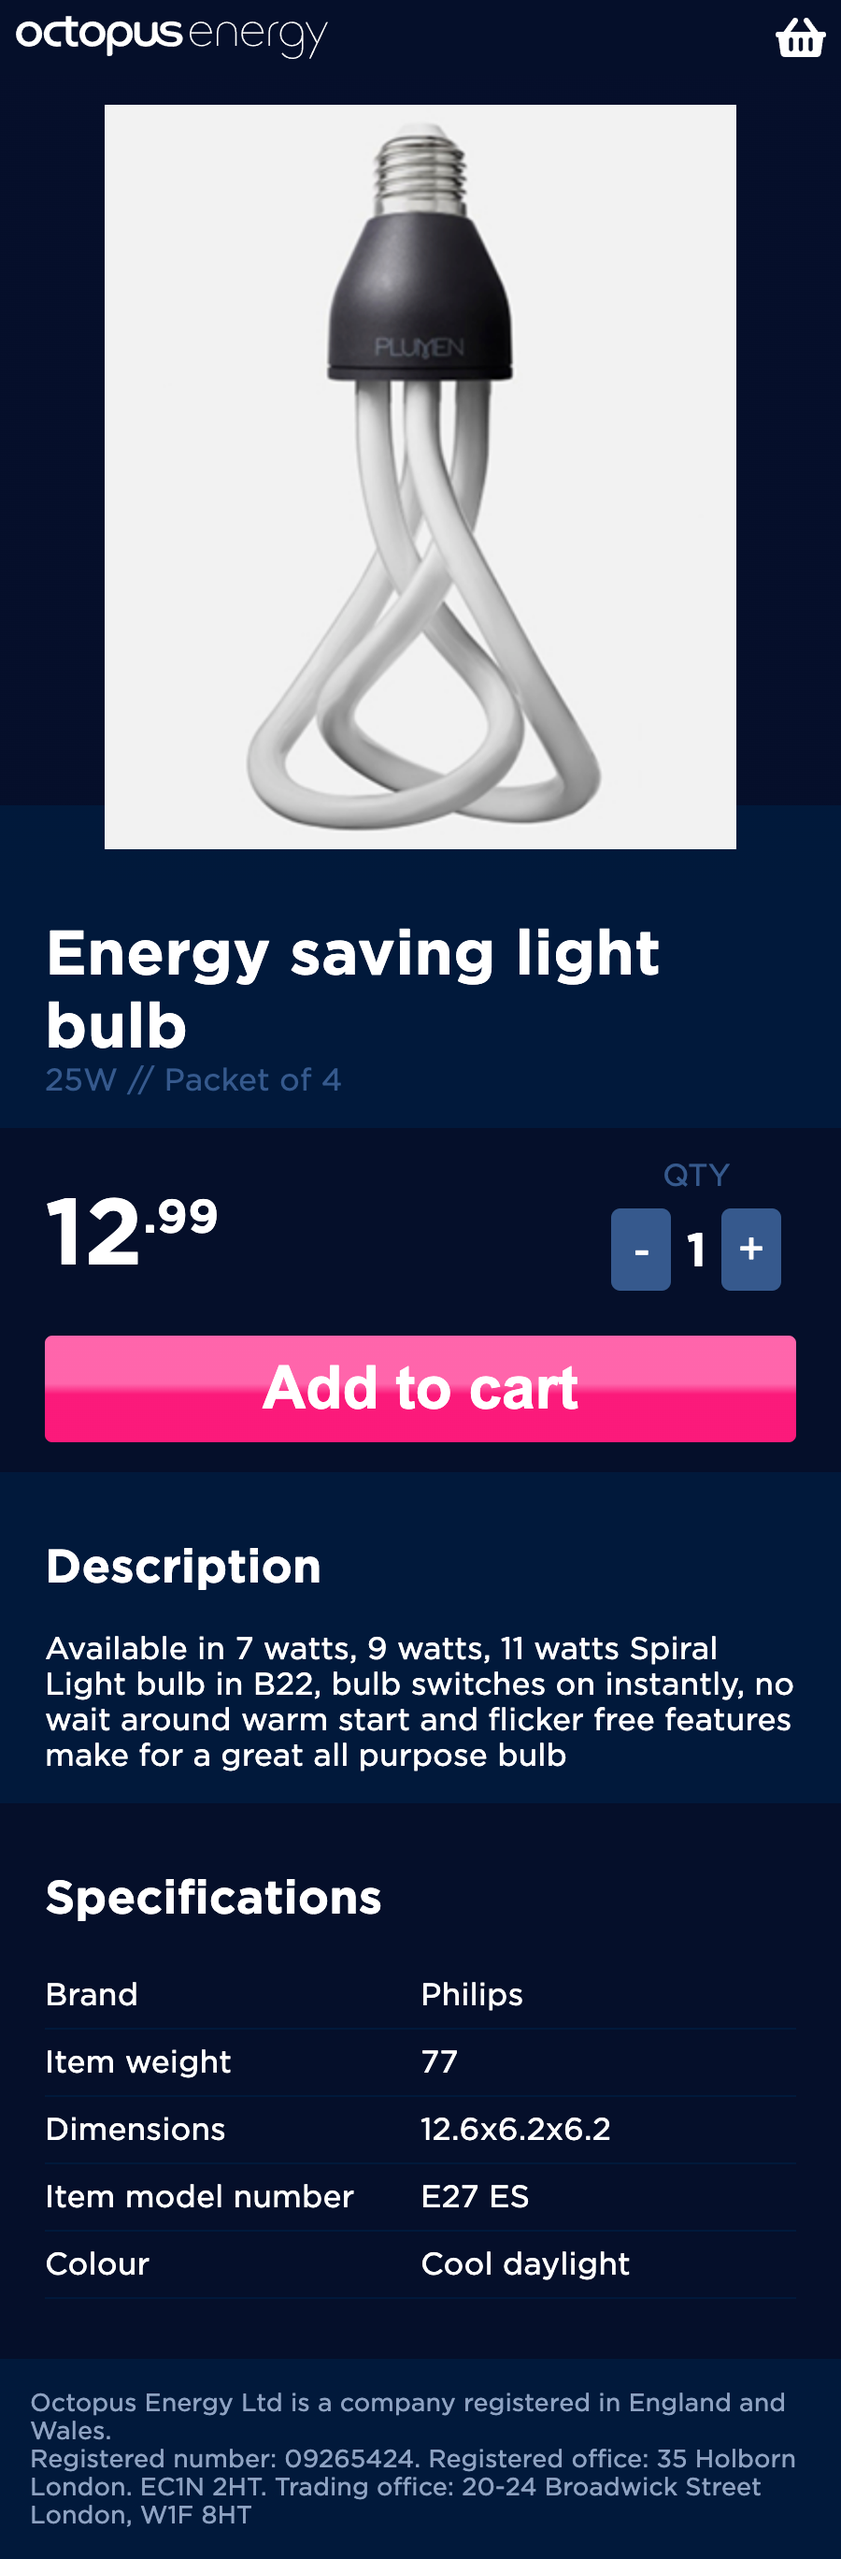
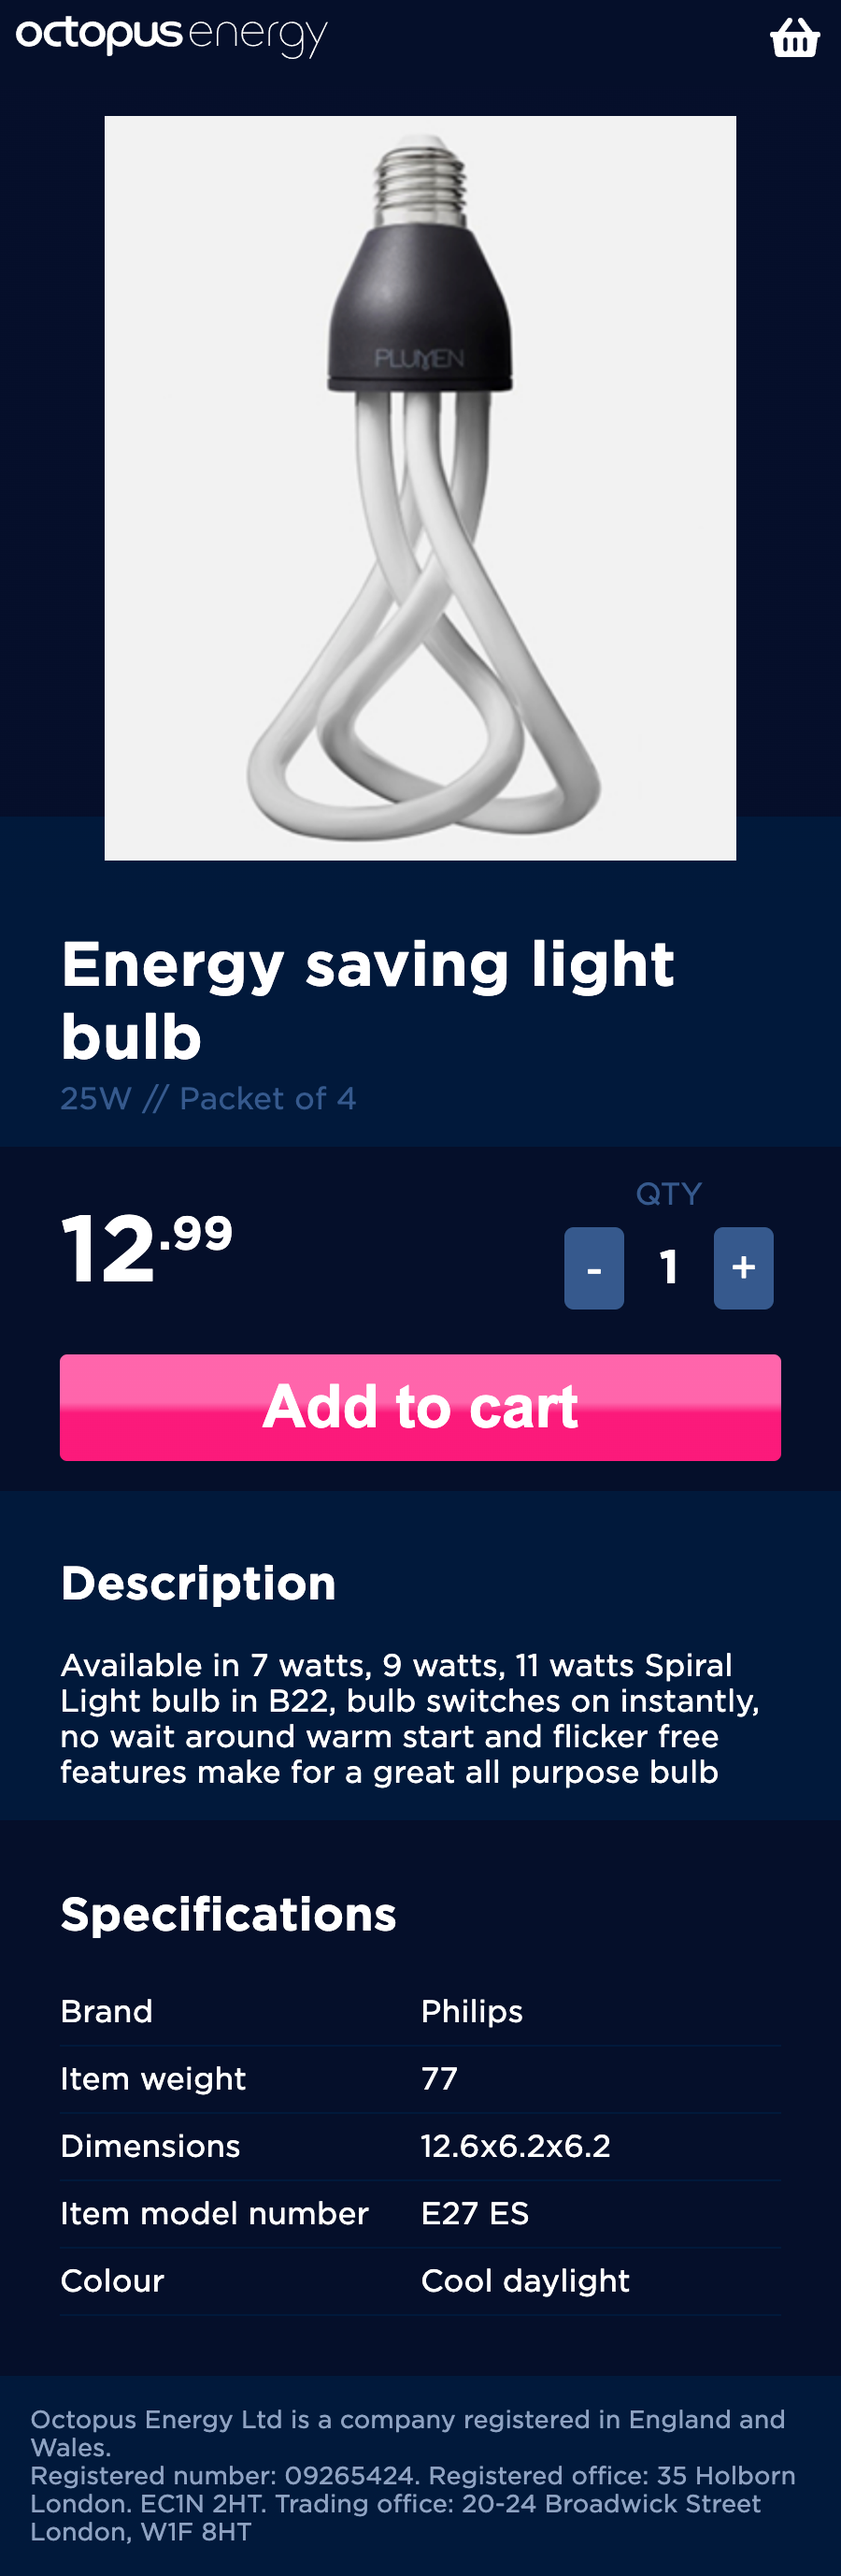
Minor design tweaks

diff --git a/NOTES.md b/NOTES.md
@@ -1,4 +1,22 @@
-# Notes
+# README!
+
+This was fun! I have left below a long list of TODOs, I wouldn't consider this app "done". Time as ran away a little, and this is as far as I got.  
+I don't mind continuing if needed, otherwise hopefully this is enough to show what I can do.
+
+To run the app:
+- Start the server following the instructions provided in the README
+  - Don't forget to run migrations and adding data to the DB
+  - This should start the server on port 8000
+- Start the client
+  - `cd octopus/client && npm install && npm start`
+  - As mentioned below, the app was built using node `v16.14.0`. Results might vary with other node versions (at least major versions!)
+  - As mentioned below I ended up using `npm` rather than `yarn` - also because that's what I'm more used to
+
+The app will load on port 3000 (http://localhost:3000). The app is set up to proxy requests to the server (see `proxy` in `client/package.json`). This is because "in the real world" I'd imagine the UI and server living under the same domain and avoid CORS complications.
+
+For reference, I've taken a full-page screenshot of the latest version of the app, and saved it in `DesignMatch.png`.
+
+## Notes
 
 (Running comments as I complete the test)
 
@@ -10,11 +28,12 @@
 
 ## TODOs
 
-- Style client to match design
+- ~~Style client to match design~~
   - A11y considerations on contrast
-    - Quantity + power
-  - A11y considerations on images/logos
-    - Should the Octopus Logo send the user somewhere?
+    - Quantity + power is not contrasty enough
+    - Some button labels
+    - The link on the basket page (and styling the button there too) 
+  - Should the Octopus Logo send the user somewhere?
   - Font doesn't quite seem to match - especially noticeable in numbers
   - Review landmarks/navigation
   - ~~Price section doesn't have a title, so goes straight into numbers without context~~

diff --git a/README.md b/README.md
@@ -1,5 +1,11 @@
 # Octopus Front End Test
 
+--- 
+
+## !! Please find instructions on how to run and more in NOTES.md !!
+
+---
+
 This example project was pinched from a
 [graphene-django example app](https://github.com/graphql-python/graphene-django/tree/master/server/app).
 and [Create React App](https://create-react-app.dev/docs/getting-started/).  
